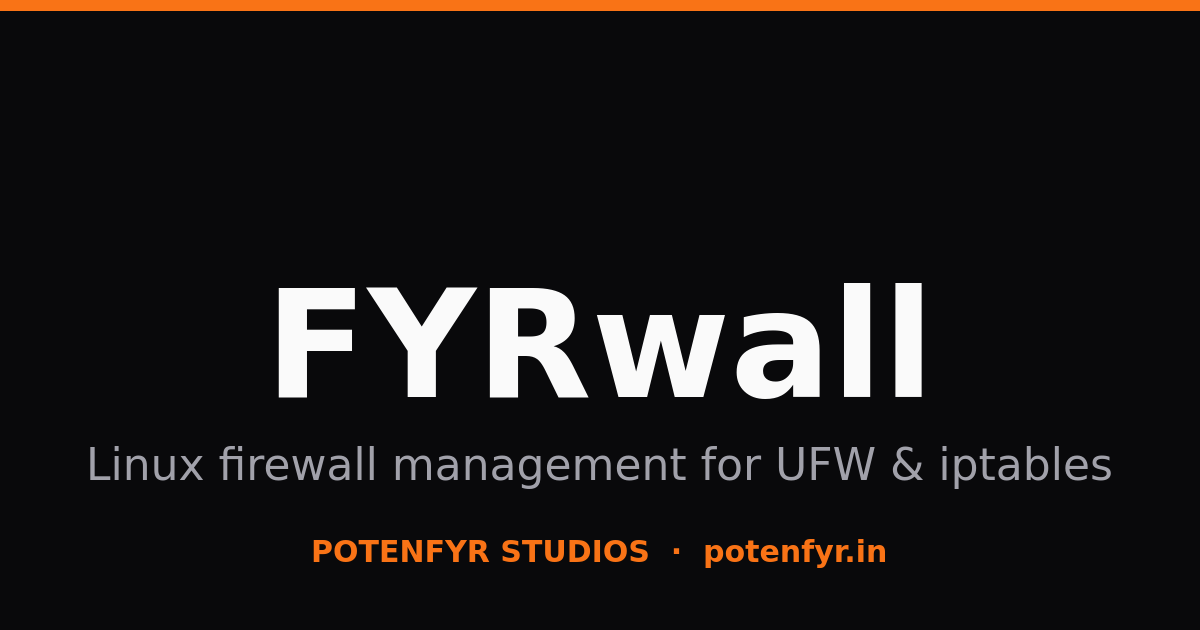
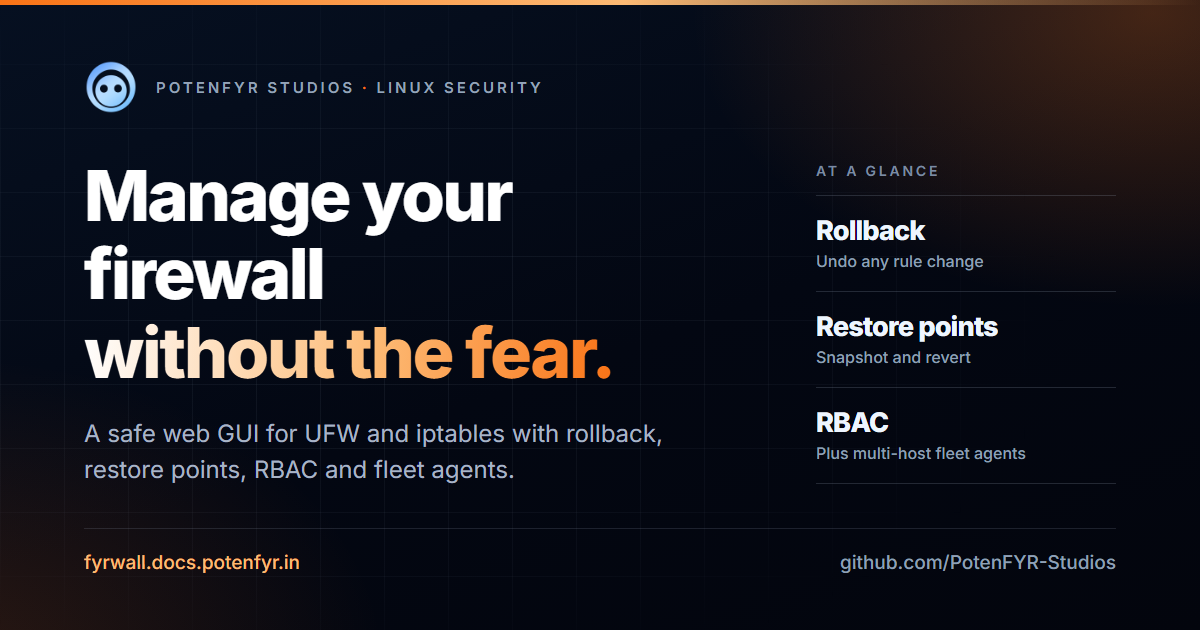
feat(docs): redesigned OG card rendered from a committed script

diff --git a/docs/scripts/og/card.html b/docs/scripts/og/card.html
@@ -1,0 +1,199 @@
+<!doctype html>
+<html lang="en">
+  <head>
+    <meta charset="utf-8" />
+    <title>FYRwall link preview</title>
+    <!--
+      Shared template for PotenFYR Studios project OG cards.
+      Edit only the CONFIG block below; the layout stays identical across the org
+      so every project's link preview reads as one family.
+      Render with: bun run og:image  (scripts/og/build-og.mjs)
+    -->
+    <link rel="preconnect" href="https://fonts.googleapis.com" />
+    <link rel="preconnect" href="https://fonts.gstatic.com" crossorigin />
+    <link
+      href="https://fonts.googleapis.com/css2?family=Inter:wght@400;500;600;700;800&display=swap"
+      rel="stylesheet"
+    />
+    <style>
+      /* ---------------- CONFIG ---------------- */
+      :root {
+        --accent: #f97316;         /* project accent, matches the docs site */
+        --accent-soft: #fdba74;    /* lighter tint of --accent */
+      }
+      /* ---------------- /CONFIG --------------- */
+
+      * { box-sizing: border-box; margin: 0; padding: 0; }
+      html, body { width: 1200px; height: 630px; overflow: hidden; }
+      body {
+        font-family: 'Inter', 'Segoe UI', system-ui, sans-serif;
+        background: #030712;
+        color: #fff;
+        -webkit-font-smoothing: antialiased;
+      }
+
+      .card {
+        position: relative;
+        width: 1200px;
+        height: 630px;
+        padding: 60px 84px 56px;
+        display: flex;
+        flex-direction: column;
+        background:
+          radial-gradient(720px 460px at 96% 2%, color-mix(in srgb, var(--accent) 26%, transparent), transparent 64%),
+          radial-gradient(700px 500px at -4% 106%, color-mix(in srgb, var(--accent) 16%, transparent), transparent 62%),
+          linear-gradient(160deg, #061021 0%, #030712 54%, #03050d 100%);
+        overflow: hidden;
+      }
+
+      .grid {
+        position: absolute;
+        inset: 0;
+        background-image:
+          linear-gradient(to right, rgba(148, 163, 184, 0.10) 1px, transparent 1px),
+          linear-gradient(to bottom, rgba(148, 163, 184, 0.10) 1px, transparent 1px);
+        background-size: 64px 64px;
+        -webkit-mask-image: radial-gradient(780px 430px at 32% 50%, #000 0%, rgba(0, 0, 0, 0.5) 60%, transparent 88%);
+        mask-image: radial-gradient(780px 430px at 32% 50%, #000 0%, rgba(0, 0, 0, 0.5) 60%, transparent 88%);
+      }
+
+      .edge {
+        position: absolute;
+        top: 0; left: 0; right: 0;
+        height: 5px;
+        background: linear-gradient(90deg, var(--accent) 0%, var(--accent-soft) 52%, transparent 100%);
+      }
+
+      .content { position: relative; z-index: 2; display: flex; flex-direction: column; height: 100%; }
+
+      .lockup { display: flex; align-items: center; gap: 18px; }
+      .lockup img { width: 54px; height: 54px; display: block; }
+      .lockup .studio {
+        font-size: 15px;
+        font-weight: 600;
+        letter-spacing: 0.2em;
+        text-transform: uppercase;
+        color: #94a3b8;
+      }
+      .lockup .studio em { font-style: normal; color: var(--accent); }
+
+      .body {
+        margin-top: auto;
+        display: flex;
+        align-items: flex-end;
+        justify-content: space-between;
+        gap: 54px;
+      }
+      .copy { max-width: 720px; }
+
+      h1 {
+        font-size: 70px;
+        line-height: 1.12;
+        font-weight: 800;
+        letter-spacing: -0.035em;
+      }
+      h1 .grad {
+        background: linear-gradient(96deg, #ffffff 0%, var(--accent-soft) 55%, var(--accent) 100%);
+        -webkit-background-clip: text;
+        background-clip: text;
+        -webkit-text-fill-color: transparent;
+      }
+
+      p.lede {
+        margin-top: 24px;
+        font-size: 24px;
+        line-height: 1.5;
+        color: #a8b4c6;
+      }
+
+      .facts { display: flex; flex-direction: column; min-width: 300px; padding-bottom: 4px; }
+      .facts .eyebrow {
+        font-size: 14px;
+        font-weight: 600;
+        letter-spacing: 0.2em;
+        text-transform: uppercase;
+        color: #7c8ba1;
+        padding-bottom: 16px;
+      }
+      .fact {
+        border-top: 1px solid rgba(148, 163, 184, 0.22);
+        padding: 18px 0 20px;
+      }
+      .fact.last { border-bottom: 1px solid rgba(148, 163, 184, 0.22); }
+      .fact b {
+        display: block;
+        font-size: 27px;
+        font-weight: 800;
+        letter-spacing: -0.03em;
+        color: #eef6ff;
+      }
+      .fact span {
+        display: block;
+        margin-top: 4px;
+        font-size: 16px;
+        font-weight: 500;
+        color: #8fa0b6;
+      }
+
+      .foot {
+        margin-top: 40px;
+        display: flex;
+        align-items: center;
+        justify-content: space-between;
+        border-top: 1px solid rgba(148, 163, 184, 0.18);
+        padding-top: 22px;
+        font-size: 19px;
+        font-weight: 500;
+      }
+      .foot .domain { color: var(--accent-soft); }
+      .foot .org { color: #8fa0b6; }
+    </style>
+  </head>
+  <body>
+    <div class="card">
+      <div class="grid"></div>
+      <div class="edge"></div>
+
+      <div class="content">
+        <div class="lockup">
+          <img src="../../public/favicon.png" alt="" />
+          <div class="studio">PotenFYR Studios <em>·</em> Linux Security</div>
+        </div>
+
+        <div class="body">
+          <div class="copy">
+            <h1>
+              Manage your firewall<br />
+              <span class="grad">without the fear.</span>
+            </h1>
+            <p class="lede">
+              A safe web GUI for UFW and iptables with rollback,<br />
+              restore points, RBAC and fleet agents.
+            </p>
+          </div>
+
+          <div class="facts">
+            <div class="eyebrow">At a glance</div>
+            <div class="fact">
+              <b>Rollback</b>
+              <span>Undo any rule change</span>
+            </div>
+            <div class="fact">
+              <b>Restore points</b>
+              <span>Snapshot and revert</span>
+            </div>
+            <div class="fact last">
+              <b>RBAC</b>
+              <span>Plus multi-host fleet agents</span>
+            </div>
+          </div>
+        </div>
+
+        <div class="foot">
+          <div class="domain">fyrwall.docs.potenfyr.in</div>
+          <div class="org">github.com/PotenFYR-Studios</div>
+        </div>
+      </div>
+    </div>
+  </body>
+</html>
